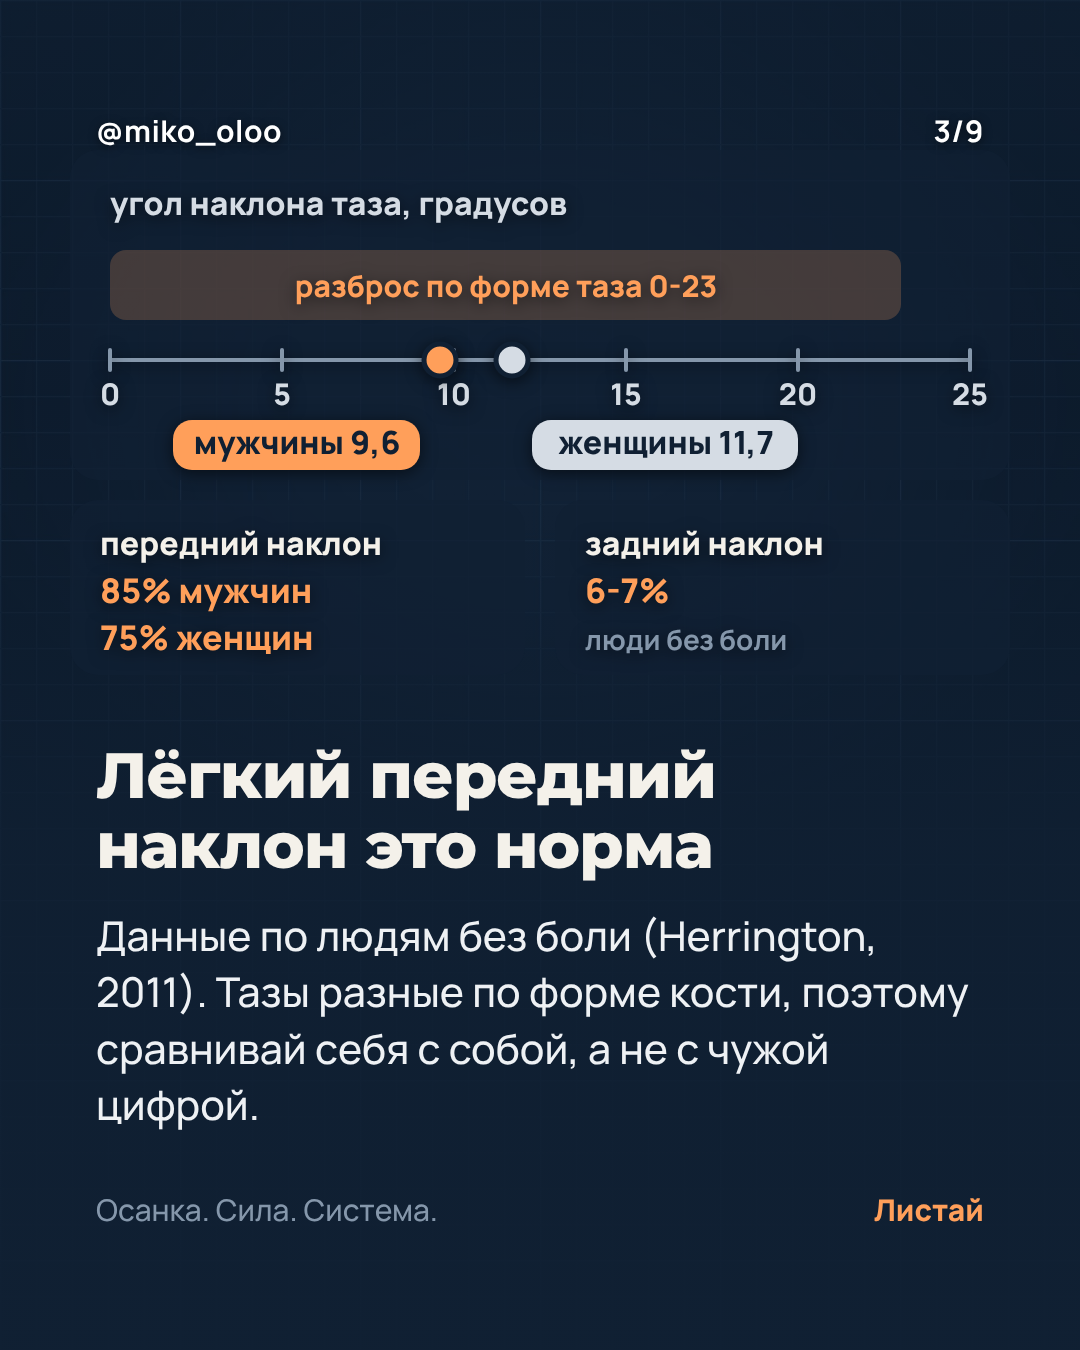
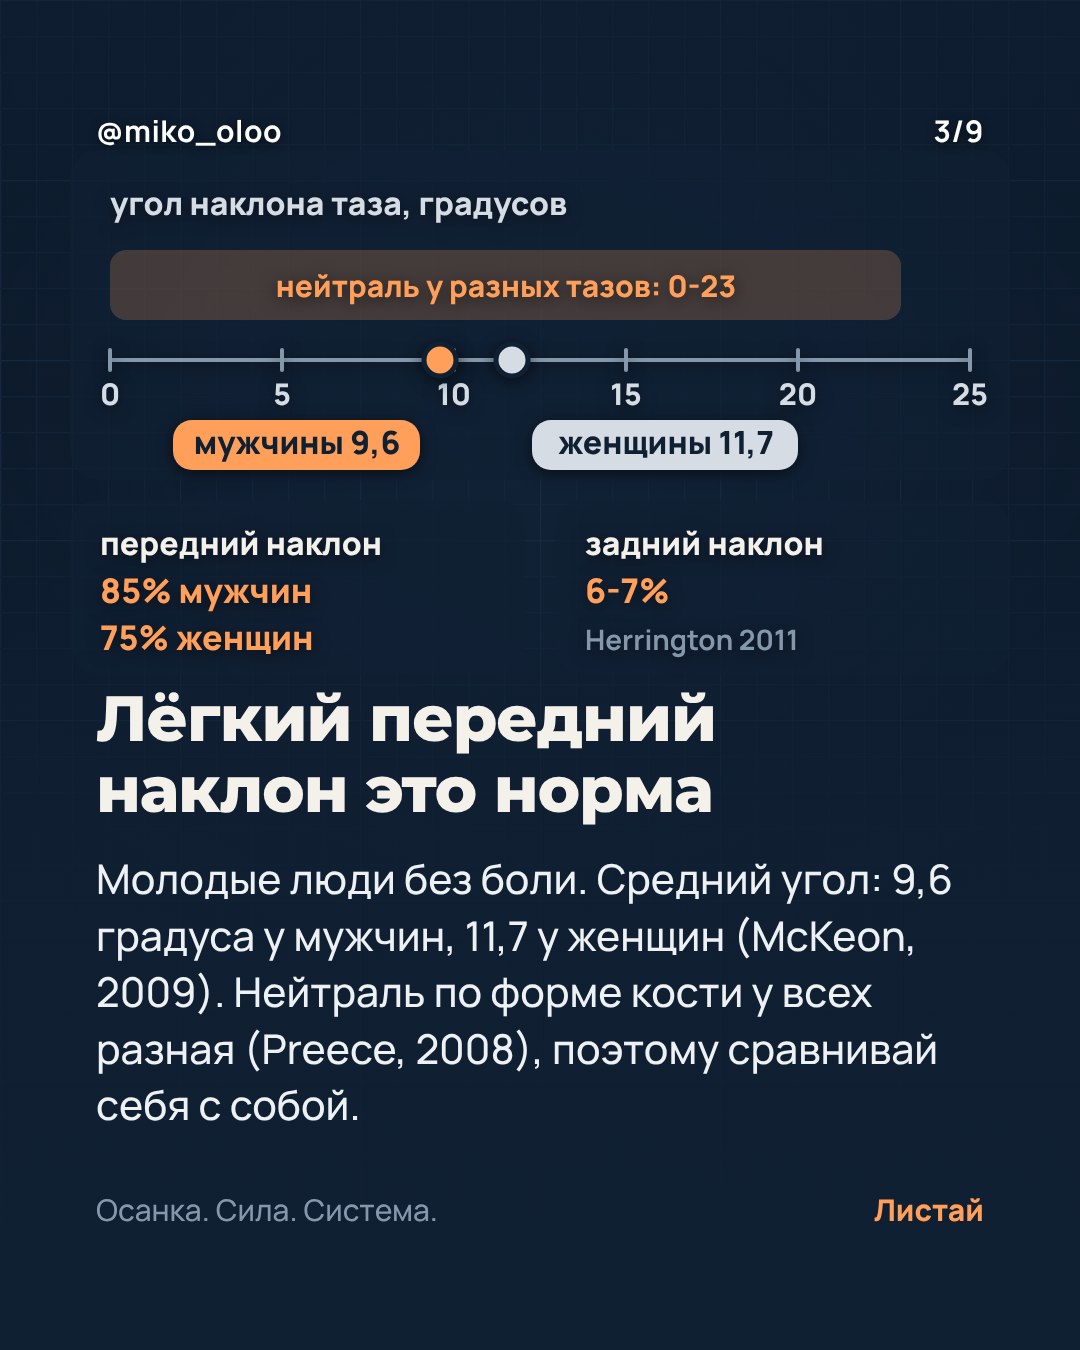
c8: правки fact-checker (McKeon 2009, клиническая модель, подвздошно-поясничная, формулировки по данным)
Claude-Session: https://claude.ai/code/session_014b6iEBjPGyacsH4fnBbVwQ

Changed region(s): [[0.0917, 0.4667, 0.8861, 0.84], [0.2444, 0.1867, 0.6722, 0.2489]]

diff --git a/content/carousels/build_c8.py b/content/carousels/build_c8.py
@@ -79,13 +79,13 @@ def slides():
     sx = lambda d: 110 + d * 34.4
     nm = [b.panel(70, 150, 940, 330), text(110, 215, 'угол наклона таза, градусов', 32, SOFT, 800),
           f'<rect x="{sx(0):.0f}" y="250" width="{sx(23) - sx(0):.0f}" height="70" rx="16" fill="{A}" fill-opacity=".22"/>',
-          text(sx(11.5), 297, 'разброс по форме таза 0-23', 30, A, 800, 'middle'), line(sx(0), 360, sx(25), 360, MUTED, 4)]
+          text(sx(11.5), 297, 'нейтраль у разных тазов: 0-23', 30, A, 800, 'middle'), line(sx(0), 360, sx(25), 360, MUTED, 4)]
     for d_ in (0, 5, 10, 15, 20, 25):
         nm += [line(sx(d_), 350, sx(d_), 370, MUTED, 4), text(sx(d_), 405, str(d_), 30, SOFT, 800, 'middle')]
     nm += [dot(sx(9.6), 360, 16, A, BG), dot(sx(11.7), 360, 16, SOFT, BG),
            pill(sx(9.6) - 20, 420, 'мужчины 9,6', A, BG, 32, 'end'), pill(sx(11.7) + 20, 420, 'женщины 11,7', SOFT, BG, 32),
            b.panel(70, 500, 455, 175), text(100, 555, 'передний наклон', 32, TXT, 800), text(100, 603, '85% мужчин', 34, A, 800), text(100, 650, '75% женщин', 34, A, 800),
-           b.panel(555, 500, 455, 175), text(585, 555, 'задний наклон', 32, TXT, 800), text(585, 603, '6-7%', 34, A, 800), text(585, 650, 'люди без боли', 28, MUTED, 700)]
+           b.panel(555, 500, 455, 175), text(585, 555, 'задний наклон', 32, TXT, 800), text(585, 603, '6-7%', 34, A, 800), text(585, 650, 'Herrington 2011', 28, MUTED, 700)]
     norm = svg(W, 1350, *nm)
     # 4. три таза (блок 1080x864, картинка 1620x1296: панели y 230-950 в пикселях картинки)
     k = 1080 / 1620
@@ -99,16 +99,16 @@ def slides():
     f = lambda x, y: (x, y - 640)
     pub, isch, aiis, psis6 = f(466, 1285), f(643, 1364), f(455, 1127), f(767, 1047)
     fc = [line(*pub, pub[0] - 25, pub[1] - 380, RED, 12), arrow(pub[0] - 12, pub[1] - 170, pub[0] - 20, pub[1] - 300, RED, 9, 30),
-          line(*isch, isch[0] - 9, 760, RED, 12), arrow(isch[0] - 4, isch[1] + 40, isch[0] - 8, isch[1] + 150, RED, 9, 30),
+          line(*isch, isch[0] - 9, 760, RED, 12), arrow(isch[0] - 3, isch[1] - 10, isch[0] - 6, isch[1] + 80, RED, 9, 30),
           line(psis6[0] + 10, psis6[1] + 40, 705, 585, RED, 12),
-          line(*aiis, aiis[0] + 17, 760, BLUE, 10, '18 12'),
+          f'<path d="M600 150 Q450 420 640 680" fill="none" stroke="{BLUE}" stroke-width="10" stroke-dasharray="18 12" stroke-linecap="round" {b.SH}/>',
           line(psis6[0] - 15, psis6[1] - 40, 712, 40, BLUE, 10, '18 12'),
           pill(pub[0] - 50, pub[1] - 300, 'прямая мышца живота', RED, TXT, 30, 'end'),
           pill(1060, 640, 'двуглавая мышца бедра', RED, TXT, 30, 'end'),
           pill(1060, 480, 'большая ягодичная', RED, TXT, 30, 'end'),
-          pill(aiis[0] - 40, 640, 'прямая мышца бедра', BLUE, BG, 30, 'end'),
-          pill(1050, 200, 'разгибатели поясницы', BLUE, BG, 30, 'end'),
-          pill(40, 165, 'укорочены', RED, TXT, 30), pill(40, 230, 'ослаблены', BLUE, BG, 30)]
+          pill(430, 560, 'подвздошно-поясничная', BLUE, BG, 30, 'end'),
+          pill(1050, 200, 'выпрямляющая позвоночник', BLUE, BG, 30, 'end'),
+          pill(40, 165, 'укорочены', RED, TXT, 30), pill(40, 230, 'ослаблены', BLUE, BG, 30), pill(40, 295, 'клиническая модель', BG, SOFT, 30)]
     force = svg(W, 891, topfade(W, 220), *fc)
     # 7. протокол Микаела (из базы, его слова)
     pr = [b.panel(60, 150, 960, 720), pill(100, 180, 'укрепляю', A, BG, 32), pill(560, 180, 'растягиваю', SOFT, BG, 32)]
@@ -123,25 +123,25 @@ def slides():
         pr += [text(560, y, n, 30, SOFT, 800), text(605, y, sline, 30, TXT, 800)]
     proto = svg(W, 1350, *pr)
     # 8. добавлено по данным
-    ad = [b.panel(60, 150, 960, 620), pill(100, 185, 'добавлено по данным', MUTED, BG, 30),
-          text(100, 320, 'растяжка', 34, A, 800), text(100, 370, 'растит прежде всего терпимость', 32, TXT, 800),
-          text(100, 415, 'к растяжению, а не длину мышцы', 32, TXT, 800), text(100, 460, 'Weppler, Magnusson 2010', 28, MUTED, 700),
-          text(100, 560, 'сила пресса и длина мышц бедра', 34, A, 800), text(100, 610, 'с углом таза почти не связаны', 32, TXT, 800),
-          text(100, 655, 'Walker 1987, Youdas 1996', 28, MUTED, 700)]
+    ad = [b.panel(60, 150, 960, 600), pill(100, 185, 'добавлено по данным', MUTED, BG, 30),
+          text(100, 320, 'растяжка', 34, A, 800), text(100, 370, 'в программах до 8 недель растит', 32, TXT, 800),
+          text(100, 415, 'терпимость к растяжению, а не длину', 32, TXT, 800), text(100, 460, 'Weppler, Magnusson 2010', 28, MUTED, 700),
+          text(100, 560, 'сила мышц живота и длина', 34, A, 800), text(100, 610, 'сгибателей бедра объясняют угол', 32, TXT, 800), text(100, 655, 'таза слабо', 32, TXT, 800),
+          text(100, 700, 'Walker 1987, Youdas 1996', 28, MUTED, 700)]
     added = svg(W, 1350, *ad)
     return [
         {'layout': 'photo-top', 'photoHeight': 66, 'big': True, 'photo': 'src/c8_cover.jpg', 'focus': '50% 50%', 'photo2': 'src/c8_cover_sch.jpg', 'focus2': '50% 45%',
          'title': 'Таз как ведро:\nкуда льётся вода?', 'body': 'Передний, нейтральный, задний наклон. Как отличить и что делать при заднем.', 'marks': [cover]},
         {'layout': 'photo-top', 'photoHeight': 62, 'photo': 'src/c8_neutral.jpg', 'focus': '50% 50%',
-         'title': 'Ориентиры: две подвздошные ости', 'body': 'Передняя верхняя прощупывается спереди на крыле таза, задняя под ямочками над крестцом. Угол между линией от задней ости к передней и горизонталью и есть наклон таза.', 'marks': [lm]},
+         'title': 'Ориентиры: две подвздошные ости', 'body': 'Передняя верхняя подвздошная ость прощупывается спереди на крыле таза, задняя верхняя под ямочками над крестцом. Угол между линией от задней ости к передней и горизонталью и есть наклон таза.', 'marks': [lm]},
         {'layout': 'big-number', 'photo': 'src/bg_grid.jpg', 'focus': '50% 50%',
-         'title': 'Лёгкий передний наклон это норма', 'body': 'Данные по людям без боли (Herrington, 2011). Тазы разные по форме кости, поэтому сравнивай себя с собой, а не с чужой цифрой.', 'marks': [norm]},
+         'title': 'Лёгкий передний наклон это норма', 'body': 'Молодые люди без боли. Средний угол: 9,6 градуса у мужчин, 11,7 у женщин (McKeon, 2009). Нейтраль по форме кости у всех разная (Preece, 2008), поэтому сравнивай себя с собой.', 'marks': [norm]},
         {'layout': 'photo-top', 'photoHeight': 64, 'photo': 'src/c8_three.jpg', 'focus': '50% 50%',
-         'title': 'Сбоку: лордоз, живот, ягодицы', 'body': 'Передний: поясничный лордоз усилен, выступающий живот, ягодичная область отведена назад. Задний: лордоз сглажен, поясница плоская, ягодичная область уплощена.', 'marks': [three]},
+         'title': 'Сбоку: лордоз, живот, ягодицы', 'body': 'Передний наклон часто сочетается с усиленным поясничным лордозом: выступающий живот, ягодичная область отведена назад. Задний: лордоз сглажен, поясница плоская, ягодичная область уплощена.', 'marks': [three]},
         {'layout': 'photo-top', 'photoHeight': 70, 'photo': 'src/c8_wall.jpg', 'focus': '50% 50%',
-         'title': 'Самотест у стены', 'body': 'Пятки, ягодичная область и лопатки у стены. Больше ладони под поясницей: лордоз усилен. Ладонь не проходит: лордоз сглажен. Сравнивай себя с собой по фото в одних условиях.', 'marks': [wall]},
+         'title': 'Самотест у стены: лордоз', 'body': 'Пятки, ягодичная область и лопатки у стены. Больше ладони под поясницей: лордоз усилен. Ладонь не проходит: лордоз сглажен. Сравнивай себя с собой по фото в одних условиях.', 'marks': [wall]},
         {'layout': 'photo-top', 'photoHeight': 66, 'photo': 'src/c8_force.jpg', 'focus': '50% 50%',
-         'title': 'Задний наклон: у кого и почему', 'body': 'Чаще у активных: бег, прыжки, игровые виды, спорт с детства. Укороченные мышцы тянут лобок вверх, а седалищный бугор вниз.', 'marks': [force]},
+         'title': 'Задний наклон: у кого и почему', 'body': 'По моей практике чаще у активных: бег, прыжки, игровые виды, спорт с детства. Клиническая модель: укороченные мышцы тянут лобок вверх, а седалищный бугор вниз.', 'marks': [force]},
         {'layout': 'big-number', 'photo': 'src/bg_grid.jpg', 'focus': '50% 50%',
          'title': 'Мой протокол при заднем наклоне', 'body': 'Укрепляю ослабленные, растягиваю укороченные.', 'marks': [proto]},
         {'layout': 'big-number', 'photo': 'src/bg_grid.jpg', 'focus': '50% 50%',
